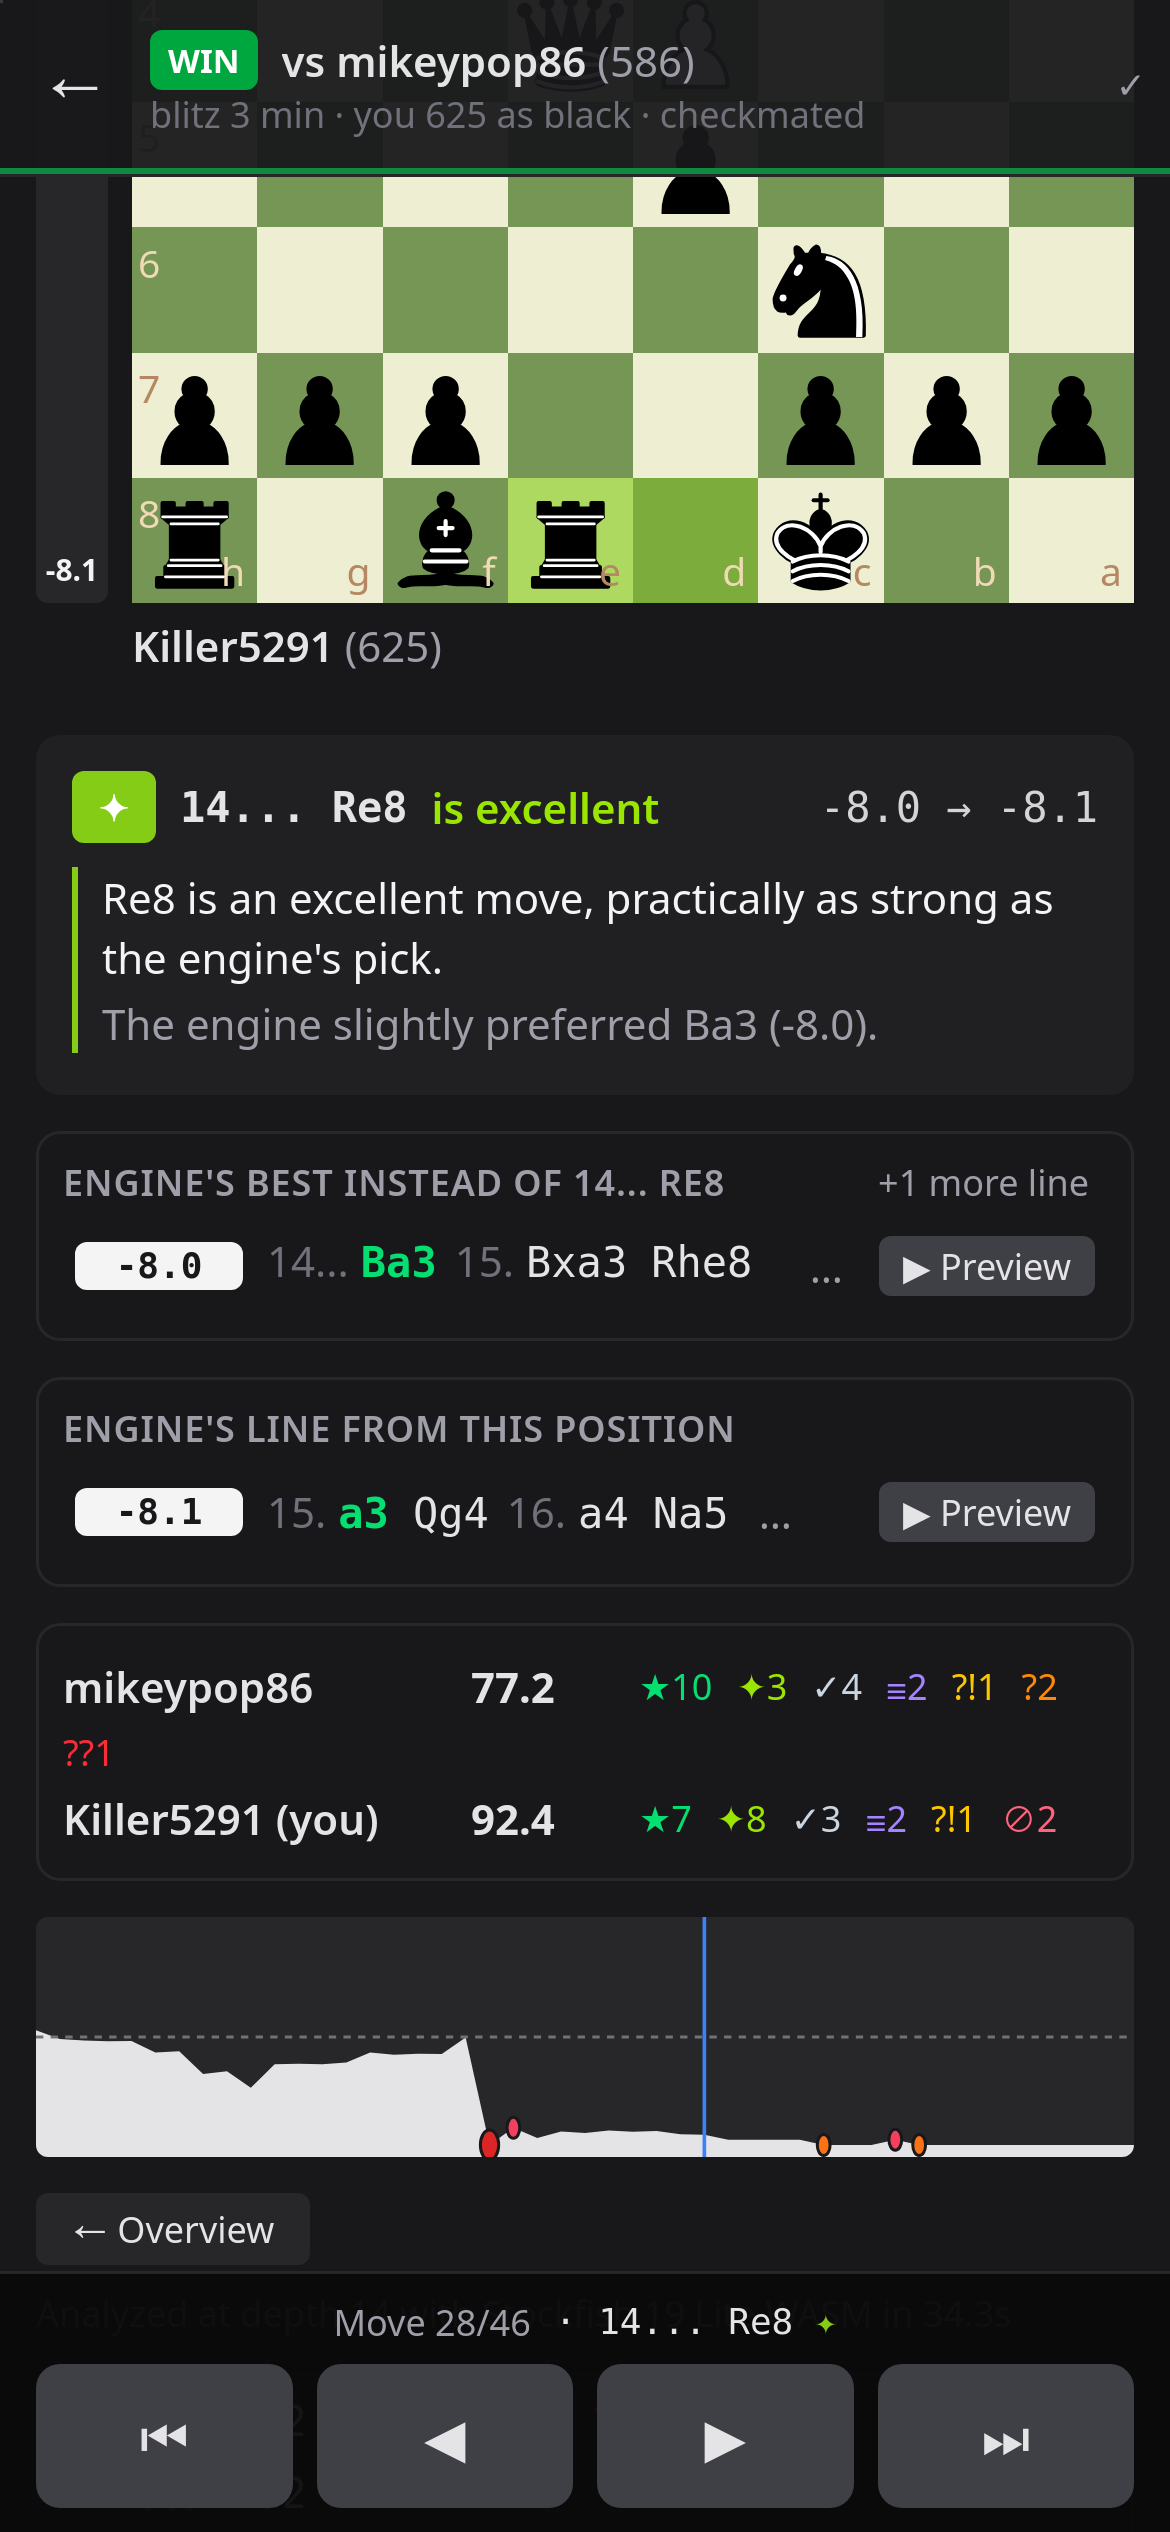
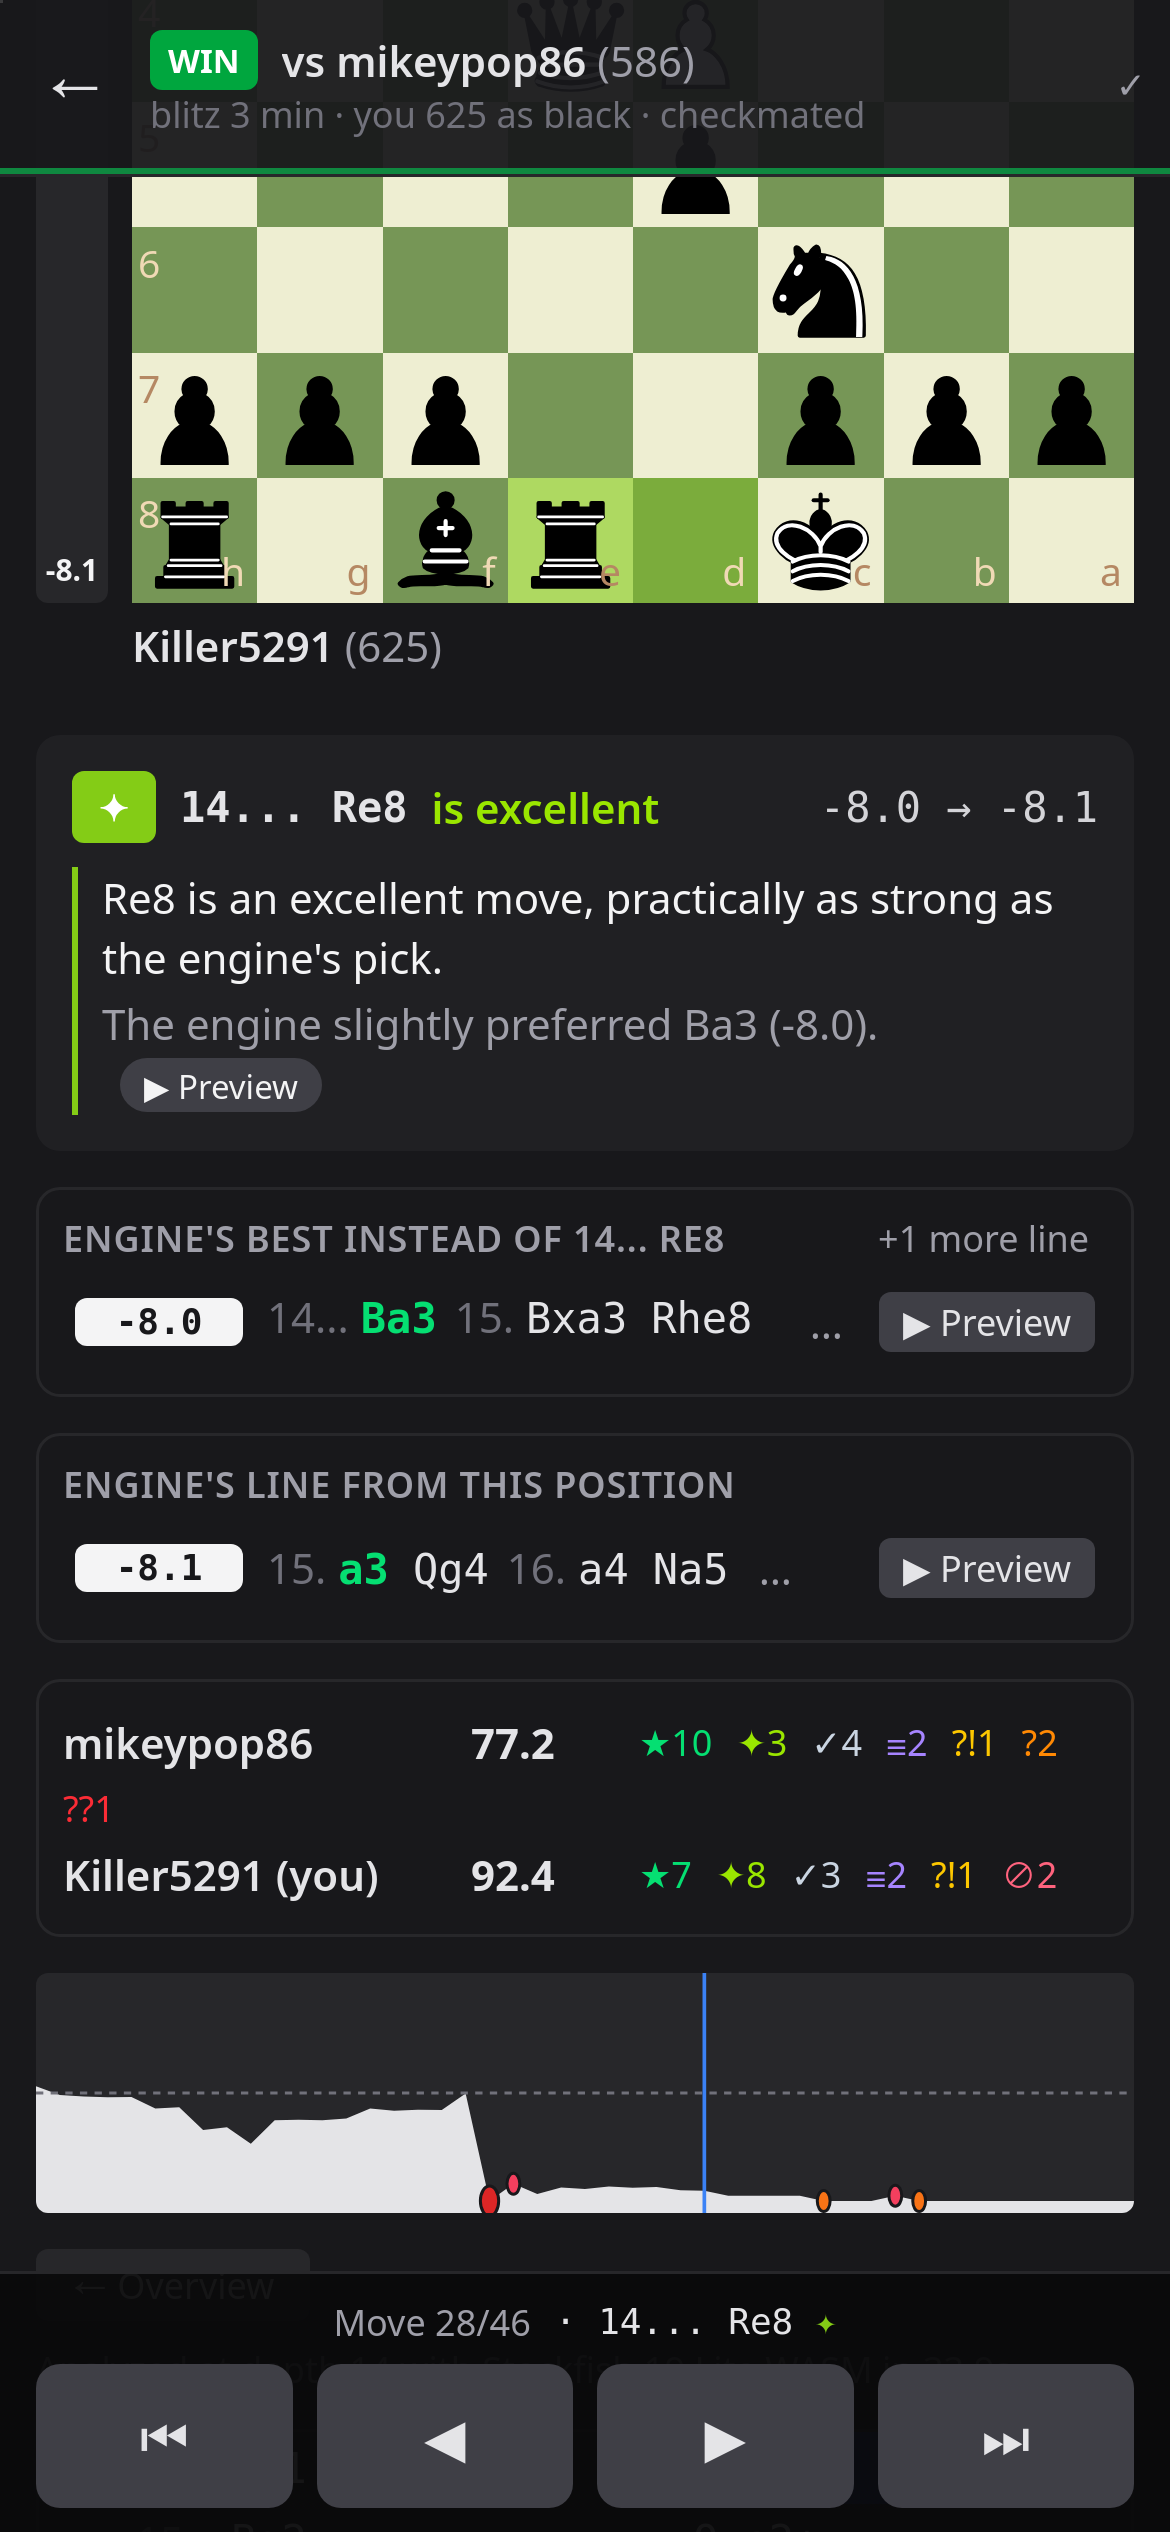
Coach card: inline Preview pills for sentences that reference an engine line

diff --git a/src/lib/explain.ts b/src/lib/explain.ts
@@ -48,9 +48,19 @@ interface LineTacticFact {
   back: PieceSymbol;
 }
 
+/**
+ * Which engine line a sentence talks about, so the UI can offer a preview:
+ * "best" = engine's top line from the position before the move, "second" = its 2nd line,
+ * "reply" = the engine's line after the played move (starts with the opponent's reply).
+ */
+export type LineRef = "best" | "second" | "reply";
+
 export interface Explanation {
   headline: string;
   details: string[];
+  /** Optional line references: headlineRef for the headline, detailRefs[i] for details[i]. */
+  headlineRef?: LineRef | null;
+  detailRefs?: (LineRef | null)[];
   facts: Fact[];
 }
 
@@ -245,8 +255,14 @@ export function renderRuleBased(i: ExplainInput, facts: Fact[]): Explanation {
   const side = colorName(i.color === "white" ? "w" : "b");
   const other = colorName(opp(i.color === "white" ? "w" : "b"));
   const details: string[] = [];
+  const detailRefs: (LineRef | null)[] = [];
+  const detail = (text: string, ref: LineRef | null = null) => {
+    details.push(text);
+    detailRefs.push(ref);
+  };
   const san = i.san;
   let headline: string;
+  let headlineRef: LineRef | null = null;
 
   const mate = find(facts, "checkmate");
   const book = find(facts, "book");
@@ -327,16 +343,19 @@ export function renderRuleBased(i: ExplainInput, facts: Fact[]): Explanation {
       break;
     case "Excellent":
       headline = goodMoveReason() ?? pick([`${san} is an excellent move, practically as strong as the engine's pick.`, `${san} is nearly perfect.`], s);
-      if (alt) details.push(`The engine slightly preferred ${alt.san} (${alt.eval}).`);
+      if (alt) detail(`The engine slightly preferred ${alt.san} (${alt.eval}).`, "best");
       break;
     case "Good":
       headline = goodMoveReason() ?? pick([`${san} is a reasonable move.`, `${san} is fine, though not the most precise.`, `${san} keeps things under control.`], s);
-      if (alt) details.push(`${alt.san} (${alt.eval}) was a bit stronger.`);
+      if (alt) detail(`${alt.san} (${alt.eval}) was a bit stronger.`, "best");
       break;
     default: {
       // Inaccuracy, Mistake, Miss, Blunder: explain the main cause.
-      if (i.classification === "Miss" && mateMissed) headline = `${san} misses a forced mate in ${mateMissed.n}${mateMissed.best ? ` starting with ${mateMissed.best}` : ""}.`;
-      else if (i.classification === "Miss" && missed)
+      if (i.classification === "Miss" && mateMissed) {
+        headline = `${san} misses a forced mate in ${mateMissed.n}${mateMissed.best ? ` starting with ${mateMissed.best}` : ""}.`;
+        if (mateMissed.best) headlineRef = "best";
+      } else if (i.classification === "Miss" && missed) {
+        if (missed.best) headlineRef = "best";
         headline = pick(
           [
             `${san} misses the chance to punish ${missed.opponentMove}.${missed.best && missed.gain >= 1 ? ` ${missed.best} would have won ${materialWords(missed.gain)}.` : missed.best ? ` ${missed.best} was the way.` : ""}`,
@@ -344,21 +363,28 @@ export function renderRuleBased(i: ExplainInput, facts: Fact[]): Explanation {
           ],
           s,
         );
-      else if (mateAllowed)
+      } else if (mateAllowed) {
         headline = pick([`${san} allows mate in ${mateAllowed.n}${mateAllowed.reply ? ` after ${mateAllowed.reply}` : ""}.`, `${san} walks into a forced mate in ${mateAllowed.n}.`], s);
-      else if (mateMissed) headline = `${san} lets a forced mate in ${mateMissed.n} slip away.`;
-      else if (hangs && !(lost && lost.amount > VALUE[hangs.piece] + 0.5))
+        headlineRef = "reply";
+      } else if (mateMissed) {
+        headline = `${san} lets a forced mate in ${mateMissed.n} slip away.`;
+        headlineRef = "best";
+      } else if (hangs && !(lost && lost.amount > VALUE[hangs.piece] + 0.5)) {
+        if (hangs.reply) headlineRef = "reply";
         headline = pick(
           [`${san} leaves the ${NAME[hangs.piece]} on ${hangs.square} hanging${hangs.reply ? `: ${hangs.reply} just takes it` : ""}.`, `${san} drops the ${NAME[hangs.piece]} on ${hangs.square}.`, `After ${san}, the ${NAME[hangs.piece]} on ${hangs.square} is unprotected and can be taken.`],
           s,
         );
-      else if (replyTac)
+      } else if (replyTac) {
         headline = pick([`${san} allows ${tacticPhrase(replyTac)}.`, `${san} runs into ${tacticPhrase(replyTac)}.`], s);
-      else if (lost)
+        headlineRef = "reply";
+      } else if (lost) {
         headline = pick([`${san} loses ${materialWords(lost.amount)}${lost.reply ? ` after ${lost.reply}` : ""}.`, `${san} gives away ${materialWords(lost.amount)}.`, `${san} costs ${materialWords(lost.amount)} in the engine's line.`], s);
-      else if (wonBest)
+        headlineRef = "reply";
+      } else if (wonBest) {
         headline = pick([`${san} misses a chance to win ${materialWords(wonBest.amount)}.`, `${san} overlooks a way to win ${materialWords(wonBest.amount)}.`], s);
-      else
+        headlineRef = "best";
+      } else
         headline = pick(
           [`${san} lets the advantage slip (${i.formatEval(i.evalBefore)} → ${i.formatEval(i.evalAfter)}).`, `${san} worsens ${side}'s position (${i.formatEval(i.evalBefore)} → ${i.formatEval(i.evalAfter)}).`, `${san} is imprecise and hands ${other} the better chances (${i.formatEval(i.evalAfter)}).`],
           s,
@@ -367,14 +393,17 @@ export function renderRuleBased(i: ExplainInput, facts: Fact[]): Explanation {
         let d = `Better was ${alt.san} (${alt.eval})`;
         if (bestTac) d += `: ${tacticSentence(bestTac).replace(/^\S+ /, "it ")}`;
         else if (wonBest && !headline.includes("win")) d += `, winning ${materialWords(wonBest.amount)}`;
-        details.push(`${d}.`);
+        detail(`${d}.`, "best");
+        // The headline's line is the same one: show the button on the "Better was …" sentence only.
+        if (headlineRef === "best") headlineRef = null;
       }
-      if (replyTac && !headline.includes(replyTac.san)) details.push(`Watch out for ${tacticPhrase(replyTac)}.`);
-      if (lost && hangs && !headline.includes("loses")) details.push(`In the engine's line ${side} ends up ${materialWords(lost.amount)} down.`);
-      if (capture && !headline.includes("takes")) details.push(`Taking the ${NAME[capture.captured]} on ${capture.square} doesn't make up for it.`);
+      if (replyTac && !headline.includes(replyTac.san)) detail(`Watch out for ${tacticPhrase(replyTac)}.`, "reply");
+      if (lost && hangs && !headline.includes("loses")) detail(`In the engine's line ${side} ends up ${materialWords(lost.amount)} down.`, headlineRef === "reply" ? null : "reply");
+      if (capture && !headline.includes("takes")) detail(`Taking the ${NAME[capture.captured]} on ${capture.square} doesn't make up for it.`);
     }
   }
-  return { headline, details, facts };
+  if (i.classification === "Great" && only?.second && headline.includes(only.second)) headlineRef = "second";
+  return { headline, details, facts, headlineRef, detailRefs };
 }
 
 export function explainMove(i: ExplainInput): Explanation {

diff --git a/src/components/Review.tsx b/src/components/Review.tsx
@@ -23,7 +23,7 @@ import { getCachedAnalysis, saveAnalysis } from "@/lib/analysisCache";
 import { CLASS_STYLE, FLAGGED } from "@/lib/classification";
 import { CLASSIFICATIONS } from "@/lib/classify";
 import { loadOpeningBook } from "@/lib/openingBook";
-import { getExplanationRenderer, type Explanation } from "@/lib/explain";
+import { getExplanationRenderer, type Explanation, type LineRef } from "@/lib/explain";
 import { Overview } from "./Overview";
 import { LineExplorer, type ExplorerState } from "./LineExplorer";
 import type { GameSummary } from "@/lib/chesscom";
@@ -379,6 +379,13 @@ export function Review({
           <>
             {/* What happened on this move first (right under the board on mobile), then the engine's better move. */}
             <MoveDetail
+              onPreviewRef={(ref) => {
+                if (!current) return;
+                const line = ref === "reply" ? current.continuation : current.lines[ref === "best" ? 0 : 1];
+                if (!line) return;
+                if (ref === "reply") openPreview(`a${ply}-${line.rank}`, line, 1, `Engine continuation after ${curLabel}`);
+                else openPreview(`b${ply}-${line.rank}`, line, 1, `Instead of ${curLabel}, which was played`);
+              }}
               move={current}
               prev={current ? (analysis.moves[current.ply - 2] ?? null) : null}
               opening={analysis.opening?.name ?? null}
@@ -557,14 +564,54 @@ const ARTICLE: Partial<Record<Classification, string>> = {
   Miss: "a miss",
 };
 
+/**
+ * Which engine line each coach sentence refers to. Uses the explicit refs from the explainer; analyses cached
+ * before refs existed fall back to spotting the line's first move (SAN) in the sentence.
+ * No "best"/"second" refs when the played move was the engine's top move.
+ */
+function sentenceRefs(exp: Explanation, move: MoveAnalysis): { headline: LineRef | null; details: (LineRef | null)[] } {
+  const isTop = move.bestMoveUci === move.uci;
+  const available = (r: LineRef | null | undefined): LineRef | null => {
+    if (!r) return null;
+    if (r === "reply") return move.continuation?.san.length ? r : null;
+    if (isTop) return null;
+    return move.lines[r === "best" ? 0 : 1]?.san.length ? r : null;
+  };
+  if (exp.headlineRef !== undefined || exp.detailRefs) {
+    return { headline: available(exp.headlineRef), details: exp.details.map((_, i) => available(exp.detailRefs?.[i])) };
+  }
+  const has = (text: string, san: string | undefined) =>
+    !!san && new RegExp(`(^|[\\s(:,])${san.replace(/[+#=]/g, (c) => `\\${c}`)}(?=[\\s).,:+#]|$)`).test(text);
+  const guess = (text: string): LineRef | null =>
+    available(has(text, move.lines[0]?.san[0]) ? "best" : has(text, move.continuation?.san[0]) ? "reply" : has(text, move.lines[1]?.san[0]) ? "second" : null);
+  const details = exp.details.map(guess);
+  const headline = guess(exp.headline);
+  return { headline: headline && details.includes(headline) ? null : headline, details };
+}
+
+function PreviewPill({ onClick }: { onClick: () => void }) {
+  return (
+    <button
+      onClick={onClick}
+      className="ml-1.5 inline-flex translate-y-[-1px] items-center rounded-full bg-zinc-700 px-2 py-px align-middle text-[11px] leading-4 text-zinc-100 hover:bg-zinc-600"
+      title="Show this line on a board"
+      data-testid="coach-preview"
+    >
+      ▶ Preview
+    </button>
+  );
+}
+
 function MoveDetail({
   move,
   prev,
   opening,
+  onPreviewRef,
 }: {
   move: MoveAnalysis | null;
   prev: MoveAnalysis | null;
   opening: string | null;
+  onPreviewRef: (ref: LineRef) => void;
 }) {
   const [rendered, setRendered] = useState<Explanation | null>(null);
   // Optional wording layer (off by default): only runs if a non-"rules" renderer is configured.
@@ -605,6 +652,7 @@ function MoveDetail({
     );
   const s = CLASS_STYLE[move.classification];
   const exp = rendered ?? move.explanation;
+  const refs = sentenceRefs(exp, move);
   const label =
     ARTICLE[move.classification] ??
     (move.classification === "Best"
@@ -638,10 +686,14 @@ function MoveDetail({
         style={{ borderColor: s.color }}
         data-testid="coach"
       >
-        <p className="text-zinc-100">{exp.headline}</p>
+        <p className="text-zinc-100">
+          {exp.headline}
+          {refs.headline && <PreviewPill onClick={() => onPreviewRef(refs.headline!)} />}
+        </p>
         {exp.details.map((d, i) => (
           <p key={i} className="mt-0.5 text-zinc-400">
             {d}
+            {refs.details[i] && <PreviewPill onClick={() => onPreviewRef(refs.details[i]!)} />}
           </p>
         ))}
       </div>

diff --git a/tests/explain.test.ts b/tests/explain.test.ts
@@ -86,3 +86,16 @@ test("templates vary deterministically", () => {
 test("LLM wording layer is off by default", () => {
   assert.equal(getExplanationRenderer().id, "rules");
 });
+
+test("sentences carry the engine line they refer to (for coach previews)", () => {
+  const hang = explainMove(input("4k3/8/3p4/8/8/5N2/8/4K3 w - - 0 1", "f3e5", { cls: "Blunder", before: cp(300), after: cp(0), cont: ["d6e5"], best: ["f3d4"], winLoss: 40 }));
+  const better = hang.details.findIndex((d) => d.startsWith("Better was"));
+  assert.ok(better >= 0);
+  assert.equal(hang.detailRefs?.[better], "best");
+  assert.equal(hang.details.length, hang.detailRefs?.length);
+  const mate = explainMove(input("3r2k1/5ppp/8/8/8/8/P4PPP/6K1 w - - 0 1", "a2a3", { cls: "Blunder", before: cp(-500), after: { cp: null, mate: -1 }, cont: ["d8d1"], best: ["h2h3"], winLoss: 30 }));
+  assert.equal(mate.headlineRef, "reply");
+  const exc = explainMove(input("4k3/8/8/8/8/8/4P3/4K3 w - - 0 1", "e2e3", { cls: "Excellent", before: cp(100), after: cp(90), best: ["e2e4"] }));
+  assert.match(exc.details.join(" "), /preferred e4/);
+  assert.deepEqual(exc.detailRefs, ["best"]);
+});
